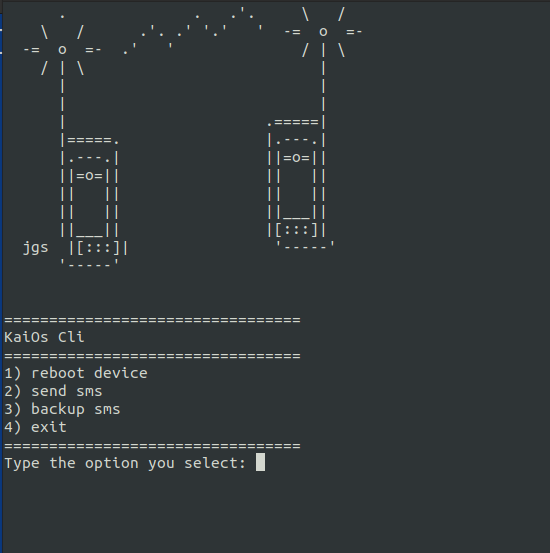
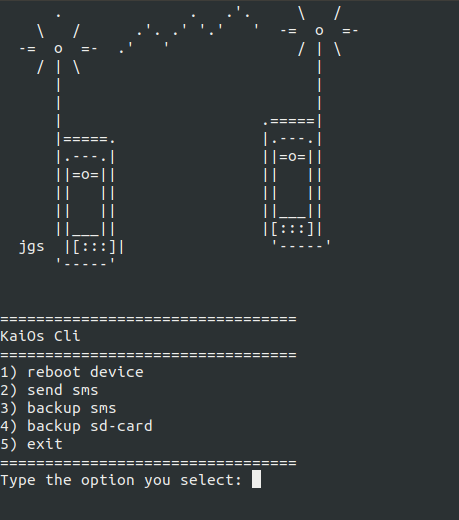
backup sd card with adb-sync

diff --git a/README.md b/README.md
@@ -11,7 +11,13 @@ KaiOs CLI to execute adb shell commands faster and send sms
 + copy sendsms to your phone adb push sendsms /system/bin/
 + create adressbook.csv, just like in the example file
 + make KaiOsCli.sh executable
++ Your Phone must be in Debug-Mode
++ Your phone must be rooted
++ set the backup path in kaiOsCli.sh
 
+### Dependencies
+ADB-Shell
+adb-sync
 
 ### Thank you
 + [Bananna Hackers Group](https://groups.google.com/forum/?utm_medium=email&utm_source=footer#!forum/bananahackers)
